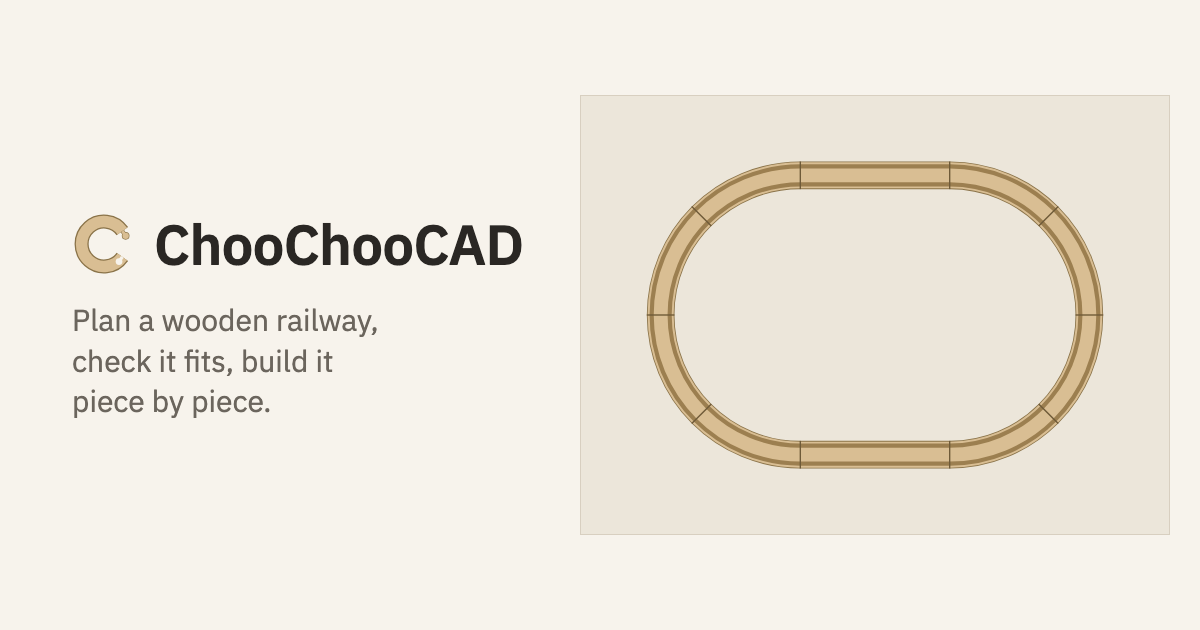
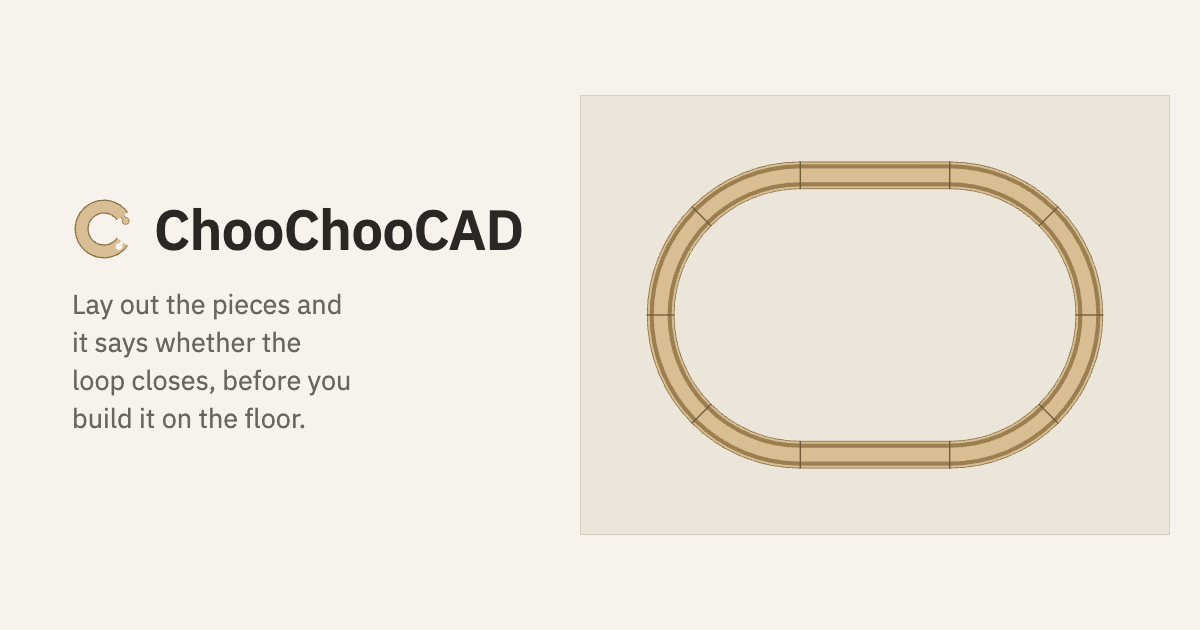
The link preview picture says what the site says
The picture's line was the tagline from before the site's title and
description were rewritten around the question the app answers. It now carries
the description's own sentence.

Changed region(s): [[0.0617, 0.3016, 0.4317, 0.6937]]

diff --git a/scripts/ogImage.ts b/scripts/ogImage.ts
@@ -78,13 +78,13 @@ console.log(`<!doctype html>
   .words { flex: 1; }
   .name { display: flex; align-items: center; gap: 18px; font-size: 56px; font-weight: 600; letter-spacing: -0.01em; }
   .name svg { width: 64px; height: 64px; }
-  .line { margin-top: 20px; font-size: 30px; line-height: 1.35; color: ${token('ink-soft')}; max-width: 18ch; }
+  .line { margin-top: 20px; font-size: 27px; line-height: 1.4; color: ${token('ink-soft')}; max-width: 22ch; text-wrap: balance; }
   .floor { background: ${token('floor')}; border: 1px solid ${token('rule')}; padding: 24px; display: flex; }
 </style></head>
 <body><main>
   <div class="words">
     <div class="name">${logo}ChooChooCAD</div>
-    <div class="line">Plan a wooden railway, check it fits, build it piece by piece.</div>
+    <div class="line">Lay out the pieces and it says whether the loop closes, before you build it on the floor.</div>
   </div>
   <div class="floor">${svg}</div>
 </main></body></html>`);
